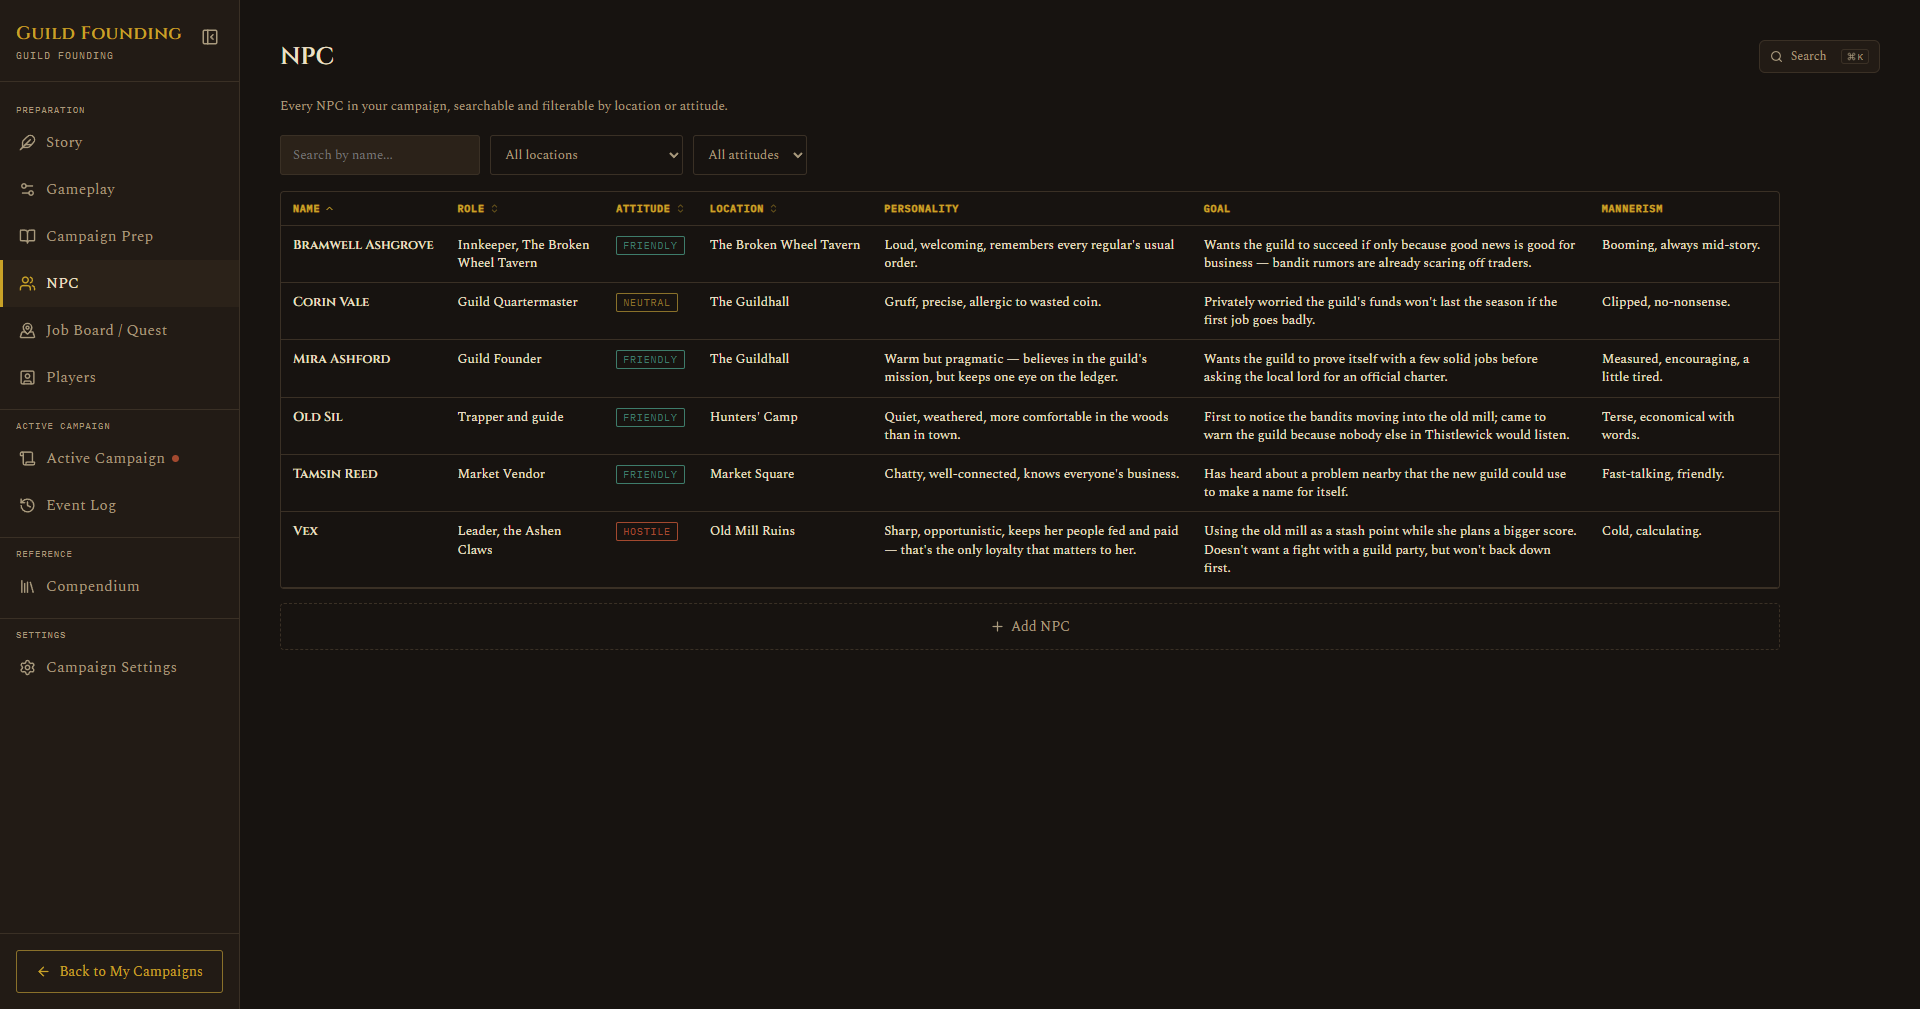
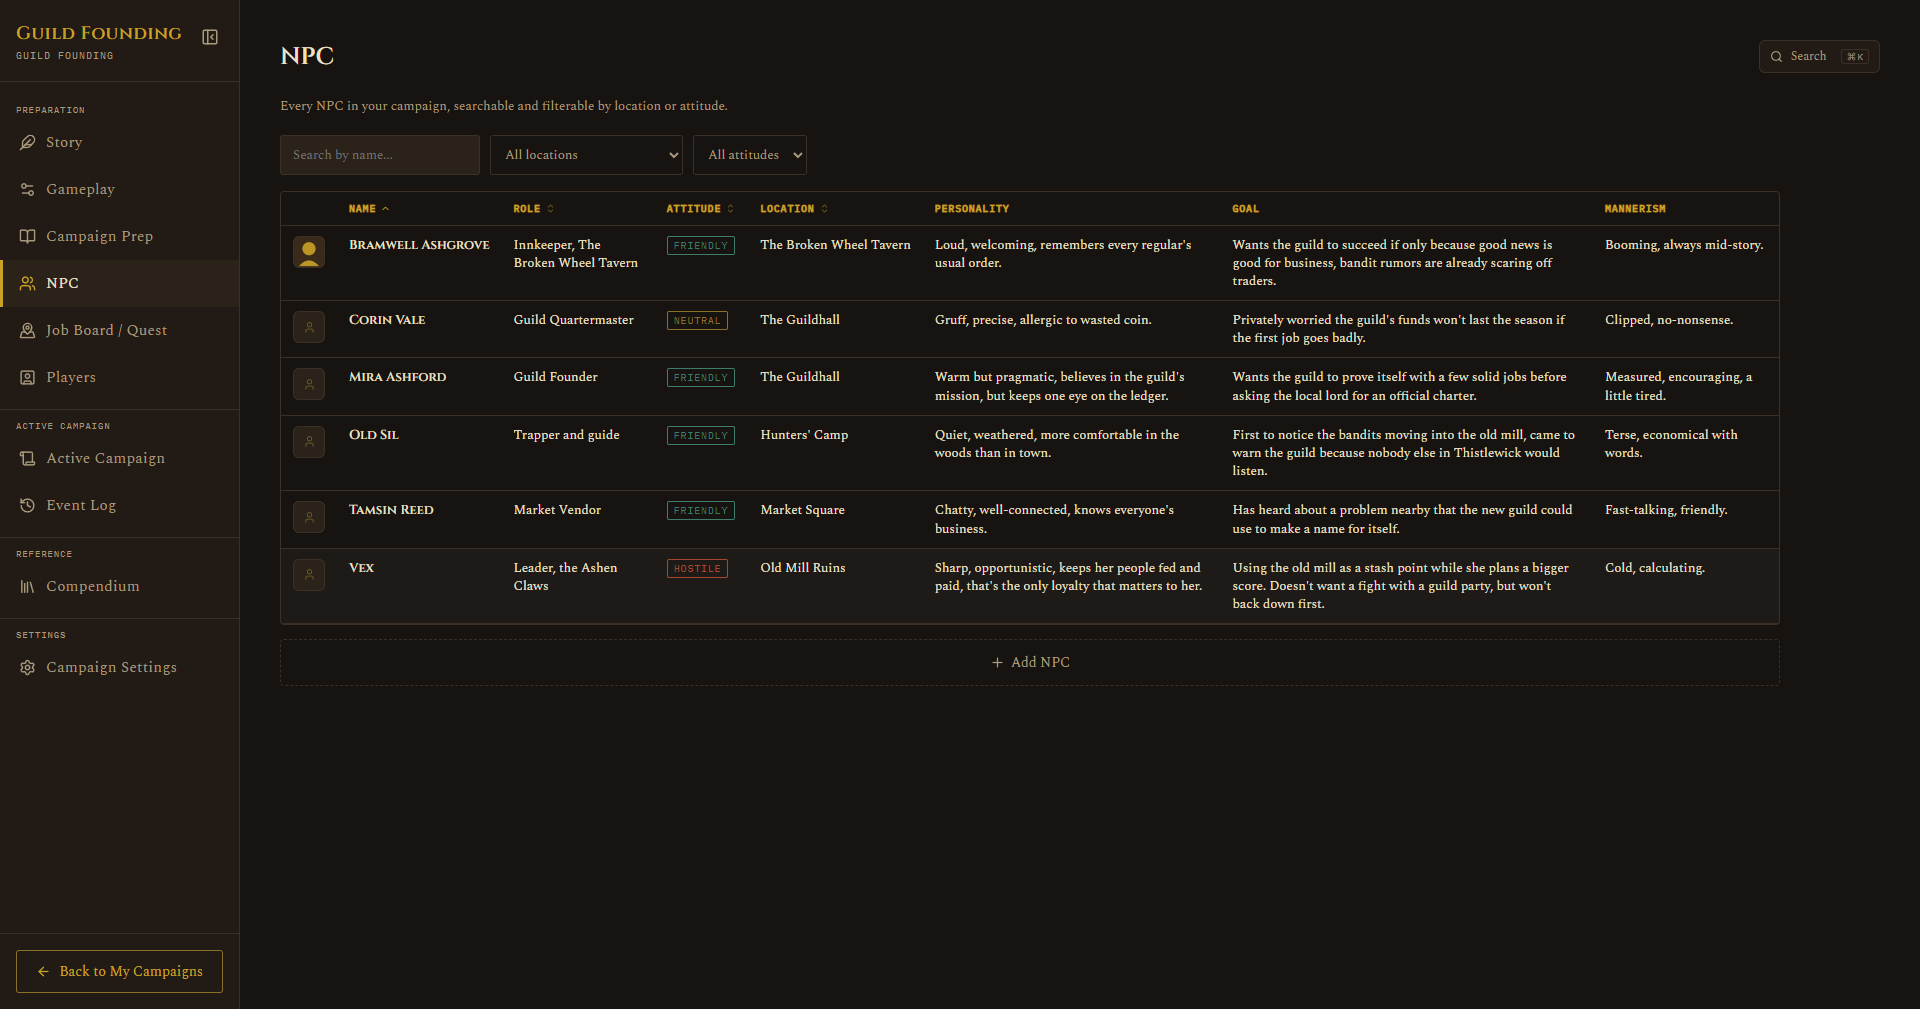
Sync homebrew compendium docs, add What's New, update NPC screenshots
Section 8 was still missing everything from v0.7.0's homebrew compendium
(official vs. homebrew, sharing across campaigns, portraits, combat use,
cross-install sharing), now matches the private repo's source guide.

Added a What's New section (v0.7.0/v0.7.1) near the top so a visitor can
see recent changes without reading the whole page.

NPC section now mentions the new portrait field, and both NPC screenshots
are updated to show it (table thumbnail column, detail-view preview).

diff --git a/index.html b/index.html
@@ -243,6 +243,7 @@
     <div class="brand">Campaign Dashboard</div>
     <div class="brand-sub">User Guide</div>
     <ol>
+      <li><a href="#whats-new">What's new</a></li>
       <li><a href="#getting-started">1. Getting started</a></li>
       <li><a href="#finding-your-way-around">2. Finding your way around</a></li>
       <li><a href="#prepping-a-campaign">3. Prepping a campaign</a></li>
@@ -277,6 +278,25 @@
     <p class="note">Want to try it yourself first? A downloadable demo build is available near the bottom of this page, in <a href="#download">section 11</a>.</p>
 
     <p class="note">Screenshots below are from a throwaway demo campaign (Guild Founding), not real campaign content.</p>
+
+    <section id="whats-new">
+      <h2>What's new</h2>
+
+      <h3>v0.7.1</h3>
+      <ul>
+        <li>NPCs can now have a portrait, with a live preview on the NPC sheet and a thumbnail on the NPC table, matching Players and Locations. It shows up on that NPC's token on the map too.</li>
+        <li>Monsters, Spells, Equipment, and Magic Items tables now have pagination (10/15/30/100 rows per page).</li>
+        <li>Starting turn order now warns if anyone's still missing an initiative roll instead of starting the fight silently.</li>
+        <li>Editing a Player, Location, or NPC's portrait/image URL now shows a live preview right next to the field, and editing an SRD monster's portrait no longer opens a separate popup, it expands inline in the stat block instead.</li>
+      </ul>
+
+      <h3>v0.7.0</h3>
+      <ul>
+        <li>Added a homebrew compendium: your own Monsters, Magic Items, and Equipment, shown alongside the official rules content and usable anywhere a monster can be, see <a href="#compendium">section 8</a>.</li>
+        <li>Homebrew content now travels with exported Campaigns and Adventures, and can also be exported/imported on its own.</li>
+        <li>Compendium gained a sortable table view, source filters (official vs. homebrew), and a portrait field for SRD monsters.</li>
+      </ul>
+    </section>
 
     <section id="getting-started">
       <h2>1. Getting started</h2>
@@ -349,14 +369,14 @@
       </figure>
 
       <h3 id="npc">NPC</h3>
-      <p>A sortable table (Name, Role, Attitude, Location), with search and filter dropdowns. Click a row to open the full NPC sheet: personality, goal or secret, mannerisms, attitude toward the party, and which location they're tied to.</p>
+      <p>A sortable table (Name, Role, Attitude, Location), with search and filter dropdowns. Click a row to open the full NPC sheet: personality, goal or secret, mannerisms, attitude toward the party, and which location they're tied to. Each NPC can also have a portrait, paste an image URL into the Portrait URL field and a live preview shows up right next to it, and a thumbnail shows on the table too. The same portrait shows up on that NPC's token wherever they're added to a map.</p>
       <figure>
-        <img src="screenshots/13-npc-table.png" alt="NPC table, sortable and filterable" />
+        <img src="screenshots/13-npc-table.png" alt="NPC table, sortable and filterable, with portrait thumbnails" />
         <figcaption>The NPC roster, sortable by column, filterable by location or attitude.</figcaption>
       </figure>
       <figure>
-        <img src="screenshots/14-npc-detail.png" alt="NPC detail sheet, personality, goal or secret, mannerism" />
-        <figcaption>An NPC's full sheet: personality, goal or secret, and mannerism.</figcaption>
+        <img src="screenshots/14-npc-detail.png" alt="NPC detail sheet, personality, goal or secret, mannerism, portrait preview" />
+        <figcaption>An NPC's full sheet: personality, goal or secret, mannerism, and portrait.</figcaption>
       </figure>
 
       <h3 id="job-board">Job Board / Quest</h3>
@@ -470,11 +490,54 @@
 
     <section id="compendium">
       <h2>8. Compendium</h2>
-      <p>A built-in D&amp;D 5e SRD reference, shared across all your campaigns rather than being campaign-specific. Browse by category (monsters, spells, conditions, equipment, magic items, plus rules and glossary sections), or search across everything at once.</p>
+      <p>A built-in D&amp;D 5e SRD reference, shared across all your campaigns rather than being campaign-specific. Browse by category (monsters, spells, conditions, equipment, magic items, plus rules and glossary sections), or search across everything at once. On top of the official reference, you can add your own homebrew content that lives alongside it.</p>
+      <p>Monsters, Spells, Equipment, and Magic Items open in a sortable table by default, with a rows-per-page control (10/15/30/100, defaults to 15) at the bottom once a category has more entries than fit on one page.</p>
       <figure>
         <img src="screenshots/17-compendium.png" alt="Compendium, browsing the Spells category" />
         <figcaption>Browsing the Spells category.</figcaption>
       </figure>
+
+      <h3 id="compendium-homebrew">Official content vs. homebrew</h3>
+      <p><strong>Official content (SRD)</strong> is the built-in rules reference, the same Goblins, Fireballs, and Longswords in every install. You can browse it and search it, but you can't edit or delete it, it's meant to stay accurate to the real rules.</p>
+      <p><strong>Homebrew content</strong> is what you create yourself: your own custom monsters, magic items, and equipment. It shows up mixed in with the official entries in the same lists, with a small "HB" tag next to the name so you can tell it apart at a glance. Unlike official content, you can edit or delete your homebrew entries any time.</p>
+      <p>Only three categories support homebrew right now: <strong>Monsters, Magic Items, and Equipment</strong>. Spells, Conditions, Rules, and the rest of the reference categories are official-content-only for now.</p>
+
+      <h3 id="compendium-homebrew-shared">Homebrew is shared across all your campaigns</h3>
+      <p>This is the part worth understanding clearly: <strong>your homebrew library isn't tied to one campaign.</strong> Create a homebrew monster while working on Campaign A, and it's already there, ready to use, when you switch to Campaign B. You never have to recreate the same custom monster twice.</p>
+      <p>Because it's shared, editing or deleting a homebrew entry affects it everywhere, not just the campaign you happen to have open. If you tweak a homebrew monster's hit points, that change applies wherever you use it. If you delete one, it's gone from every campaign, not archived.</p>
+      <p><strong>One thing to watch for</strong>: if you've already added a homebrew monster to a Planned Encounter or a Live Run, and you later delete that monster from the Compendium, the encounter keeps the token but loses its connection to the stat block, HP won't auto-fill and its full stat block won't show anymore. Editing a homebrew monster is always safe. Deleting one you're actively using somewhere is the thing to be careful with.</p>
+
+      <h3 id="compendium-homebrew-create">Creating a homebrew entry</h3>
+      <ol>
+        <li>Open the Compendium tab and pick Monsters, Magic Items, or Equipment.</li>
+        <li>Click <strong>+ New Homebrew [Category]</strong> above the list.</li>
+        <li>Fill in whatever fields apply, name is the only one required.</li>
+        <li>Save. It appears in the list right away, tagged "HB".</li>
+      </ol>
+      <p>Click any homebrew entry to view it, then use the <strong>Edit</strong> or <strong>Delete</strong> buttons on its detail page. Official entries never show those buttons, that's how you can tell at a glance whether something is yours to change.</p>
+
+      <h3 id="compendium-portraits">Portraits</h3>
+      <p>Homebrew Monsters can have a portrait image (just paste in an image link). It shows up on the Compendium entry and on that monster's token whenever it's placed on a battle map, the same way NPC and Player portraits already work.</p>
+      <p>You can also add a portrait to an <strong>official</strong> SRD monster without making a homebrew copy of it, open the monster's page and use <strong>Edit Portrait</strong>, the field expands inline right there in the stat block. Since SRD content is shared across every campaign, that portrait shows up everywhere too, not just your current campaign.</p>
+      <p>Magic Items and Equipment don't have portraits, they never appear as tokens on a map, so there's nothing to show a picture for.</p>
+
+      <h3 id="compendium-homebrew-combat">Using a homebrew monster in a fight</h3>
+      <p>Homebrew Monsters work exactly like official monsters everywhere combat happens:</p>
+      <ul>
+        <li><strong>Campaign Prep &rarr; an Encounter &rarr; Combatants</strong>, there's a Homebrew tab alongside Players/Monsters/NPCs, search and add your monster the same way.</li>
+        <li><strong>Active Campaign &rarr; Add Combatant</strong> during a live run works the same way.</li>
+      </ul>
+      <p>Once added, it gets a token with the right size, portrait if you set one, and hit points pulled from what you entered in the Compendium.</p>
+
+      <h3 id="compendium-homebrew-share">Sharing homebrew with another install</h3>
+      <p>When you export a Campaign or Adventure to a file (My Campaigns &rarr; Campaign Settings &rarr; Export), your whole homebrew library goes along with it automatically. Whoever imports that file gets their own copy of every homebrew Monster, Magic Item, and Equipment entry you'd made, added to their own library, so any Encounter in the file that uses your homebrew monster still works correctly for them.</p>
+      <p>A couple of things worth knowing about how that works:</p>
+      <ul>
+        <li>It's your <strong>entire</strong> homebrew library that travels with the file, not just the entries that particular Campaign or Adventure actually uses. If you've built up a big personal bestiary, all of it goes along, even the parts unrelated to what you're sharing.</li>
+        <li>Each import creates fresh copies. If you export and import the same file twice, or import from two different people who both had your homebrew monster, you'll end up with duplicate entries in your library, they won't merge or recognize each other as the same thing. Worth a quick tidy-up pass in the Compendium after importing if that happens.</li>
+      </ul>
+
+      <h3 id="compendium-search">Quick search</h3>
       <p>Press <kbd>Ctrl</kbd>+<kbd>K</kbd> (or <kbd>Cmd</kbd>+<kbd>K</kbd> on Mac) from anywhere in the app to pull up a quick search without leaving what you're doing.</p>
       <figure>
         <img src="screenshots/18-compendium-search.png" alt="Compendium quick search, results and a stat block preview in one window" />
